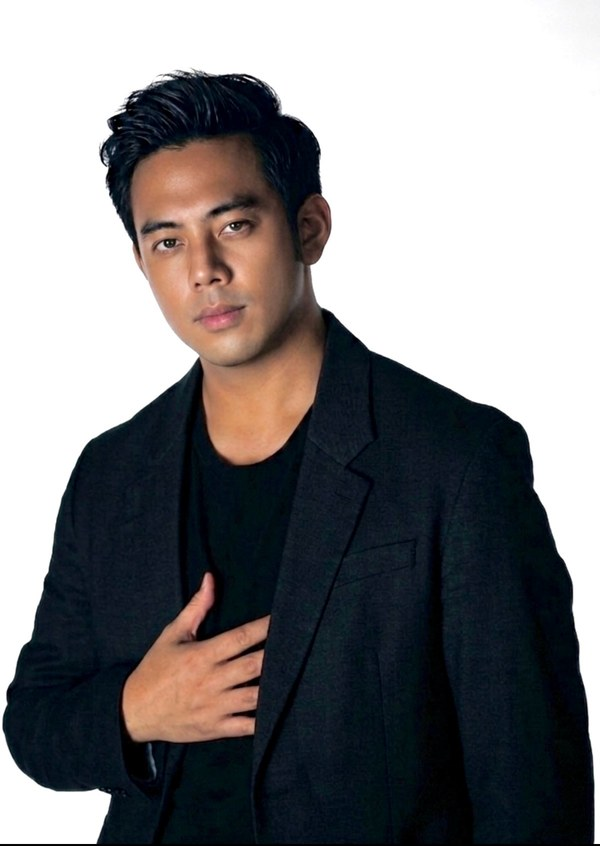
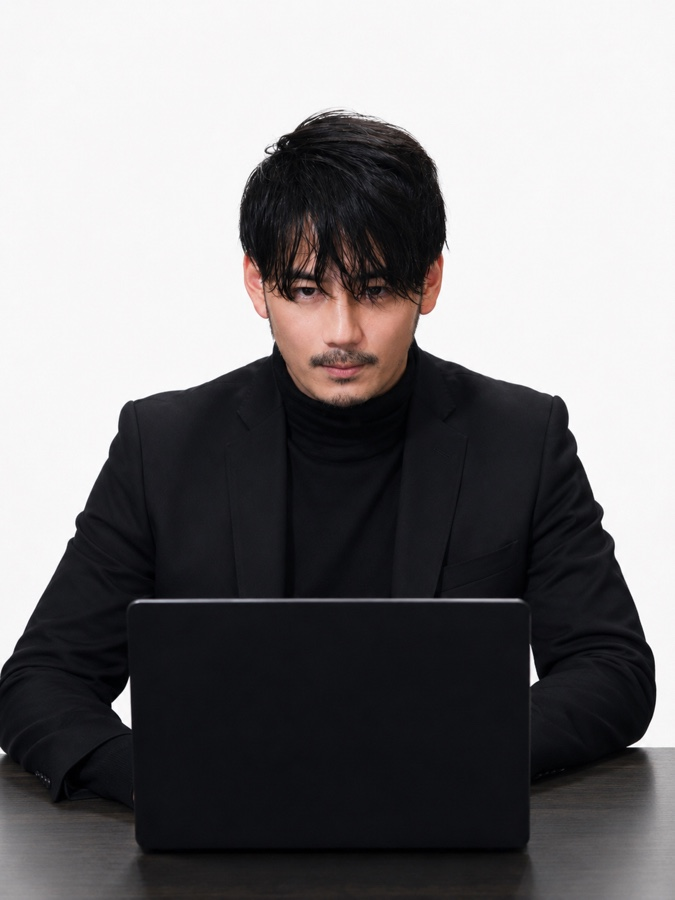
corp: 代表者写真を新しいポートレートに差し替え
Founder's Message セクションの写真を更新。新写真のアスペクト比(675x900)
に合わせて ch-founder-photo の aspect-ratio も調整(トリミング無しで表示)。

diff --git a/src/index.css b/src/index.css
@@ -4089,7 +4089,7 @@ details[open] > summary .disclosure-chev {
 .ch-founder-bg { position: absolute; right: -10%; top: 0; height: 100%; width: 70%; object-fit: cover; opacity: 0.16; pointer-events: none;
   -webkit-mask-image: linear-gradient(90deg, transparent 0%, #000 45%); mask-image: linear-gradient(90deg, transparent 0%, #000 45%); }
 .ch-founder-photo { justify-self: end; width: min(100%, 420px); border-radius: 20px; overflow: hidden; border: 1px solid rgba(148,163,184,0.2); box-shadow: 0 40px 80px -40px rgba(0,0,0,0.9); }
-.ch-founder-photo img { width: 100%; height: auto; display: block; aspect-ratio: 600 / 846; object-fit: cover; }
+.ch-founder-photo img { width: 100%; height: auto; display: block; aspect-ratio: 675 / 900; object-fit: cover; }
 .ch-overview-photo { margin-top: 2rem; border-radius: 18px; overflow: hidden; border: 1px solid rgba(148,163,184,0.16); aspect-ratio: 16 / 10; background: #0B0F17; }
 .ch-overview-photo img { width: 100%; height: 100%; object-fit: cover; display: block; }
 .ch-dl { margin: 0; border-top: 1px solid rgba(148,163,184,0.2); }

diff --git a/src/corporate/HomeSections.tsx b/src/corporate/HomeSections.tsx
@@ -437,7 +437,7 @@ export function FounderMessage({ onAnchor }: { onAnchor: AnchorHandler }) {
         <motion.div {...reveal} className="ch-founder-photo">
           <picture>
             <source srcSet="/ceo-naoki-ide.webp" type="image/webp" />
-            <img src="/ceo-naoki-ide.jpg" alt={`${COMPANY_INFO.representative} / ${COMPANY_INFO.representativeEn} — Founder & CEO`} width={600} height={846} loading="lazy" decoding="async" />
+            <img src="/ceo-naoki-ide.jpg" alt={`${COMPANY_INFO.representative} / ${COMPANY_INFO.representativeEn} — Founder & CEO`} width={675} height={900} loading="lazy" decoding="async" />
           </picture>
         </motion.div>
       </div>
